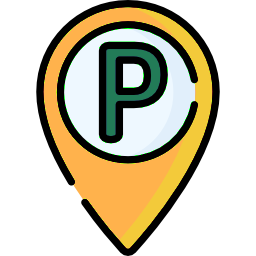
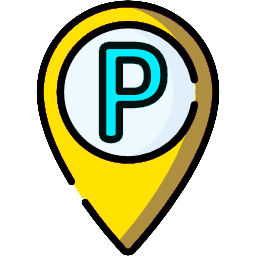
added marker variants

Changed region(s): [[0.125, 0.0, 0.875, 1.0], [0.4062, 0.1562, 0.6562, 0.5312]]

diff --git a/src/components/custom/wallet/cashIn.tsx b/src/components/custom/wallet/cashIn.tsx
@@ -17,8 +17,9 @@ import { useForm } from "react-hook-form";
 import { z } from "zod";
 import { useRouter } from "next/navigation";
 import { useState } from "react";
+import { User } from "lucia";
 
-export default function CashIn({ owner }: UserProps) {
+export default function CashIn(user: User) {
   const router = useRouter();
   const [isClicked, setIsClicked] = useState<boolean>(false);
 
@@ -35,7 +36,7 @@ export default function CashIn({ owner }: UserProps) {
 
     formData.append("amount", data.amount.toString());
 
-    const result = await cashIn(formData, owner);
+    const result = await cashIn(formData, user);
 
     if (result) {
       if (result.success) {

diff --git a/src/components/custom/maps/mapView.tsx b/src/components/custom/maps/mapView.tsx
@@ -93,7 +93,7 @@ export default function MapComponent({
                     zIndex={50}
                   >
                     <Image
-                      src="/marker.png"
+                      src="/yellow-marker.png"
                       alt="marker"
                       width={45}
                       height={45}
